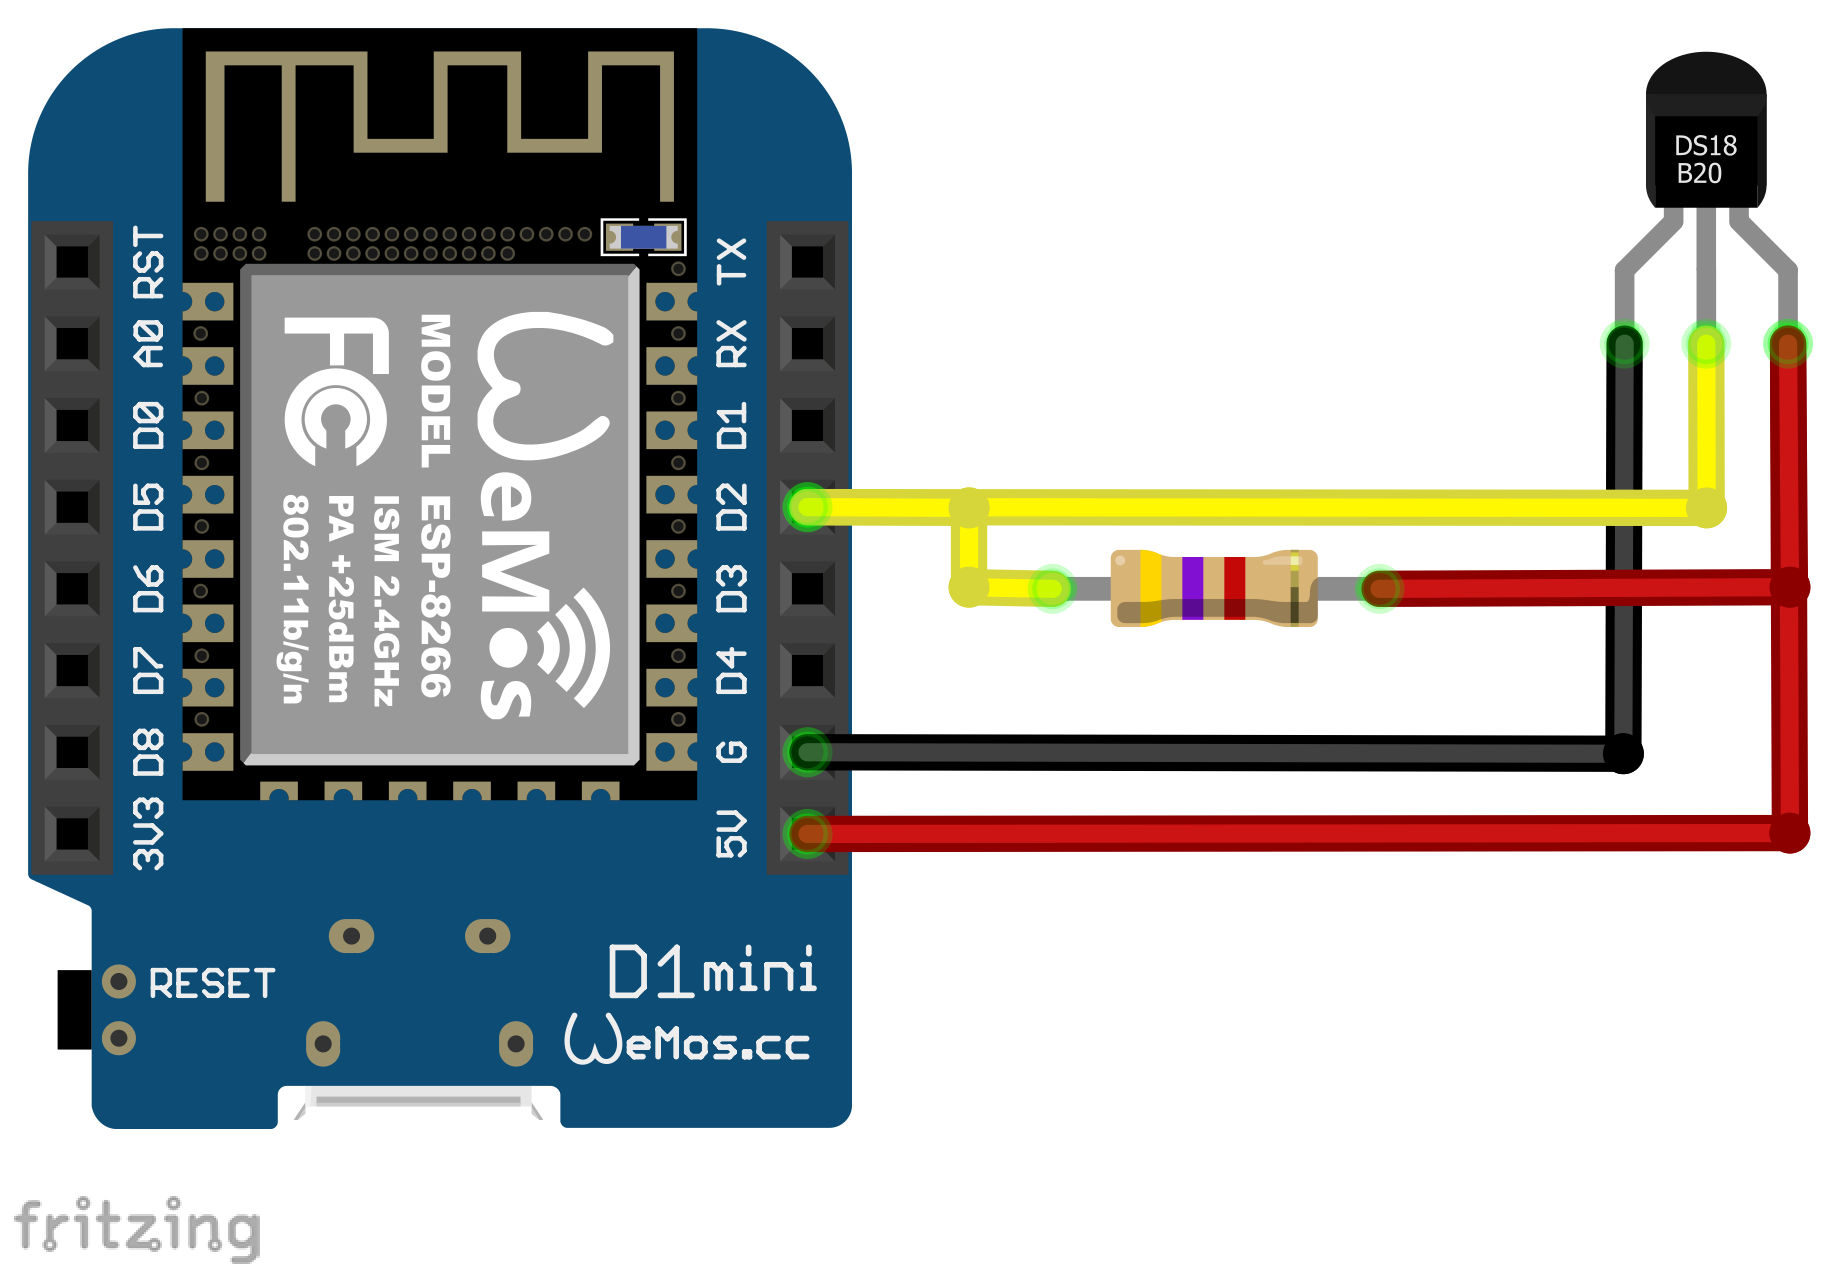
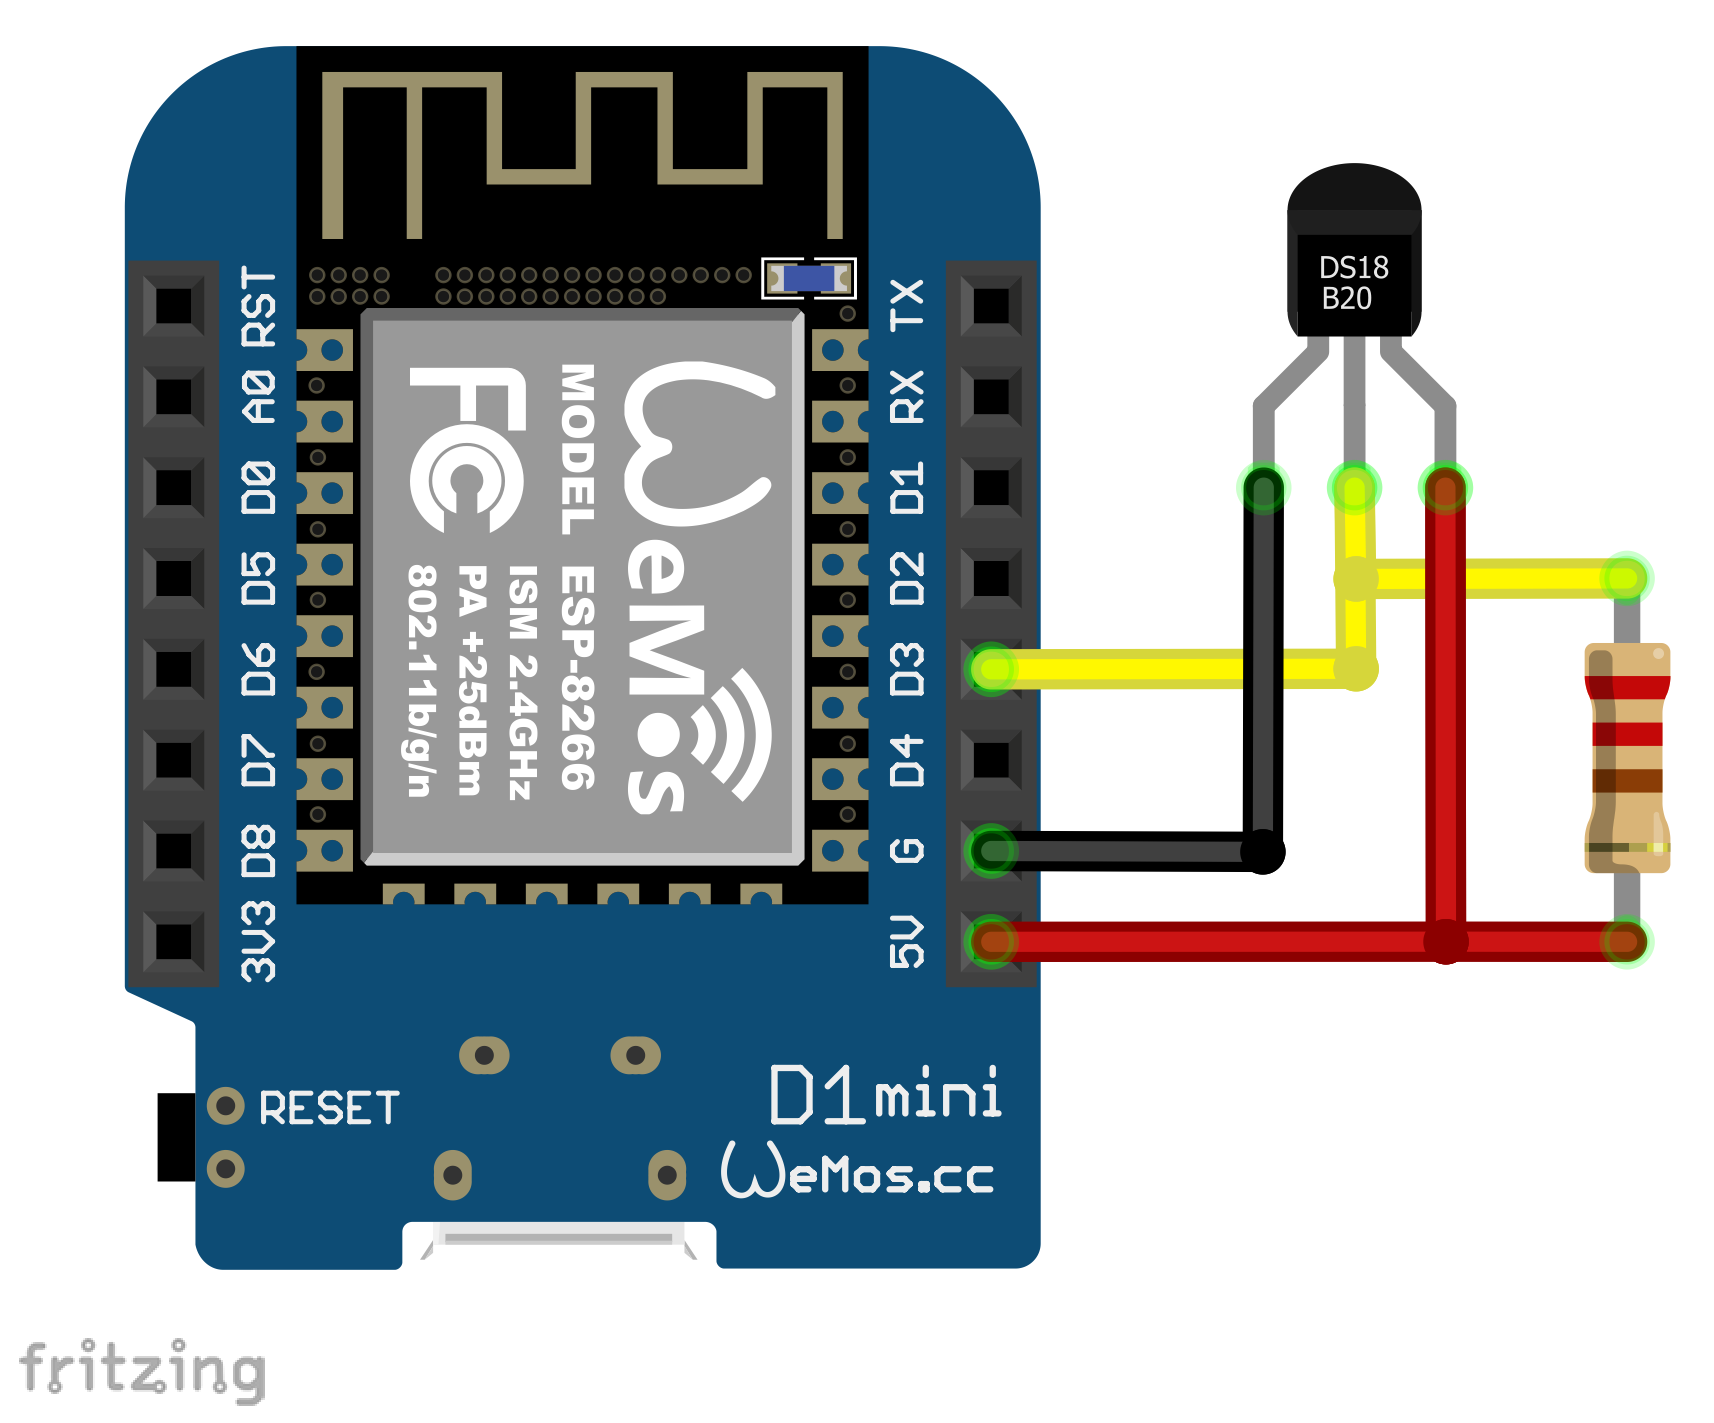
initial commit (src) :rocket:

diff --git a/README.md b/README.md
@@ -18,6 +18,11 @@ Very basic IoT thermometer with REST API and Web-UI. Implemented according to th
   <img src="hardware/temp2iot_wiring.png" alt="Temp2IoT wiring" />
 </p>
 
+<p align="center">
+  <img src="hardware/hardware_raw.jpg" alt="Temp2IoT minimal build up" />
+</p>
+Minimal build up, with SMD resistor on the back.
+
 ## REST API
 URL: `http://<Temp2IoT IP>/temp`
 Method: `GET`
